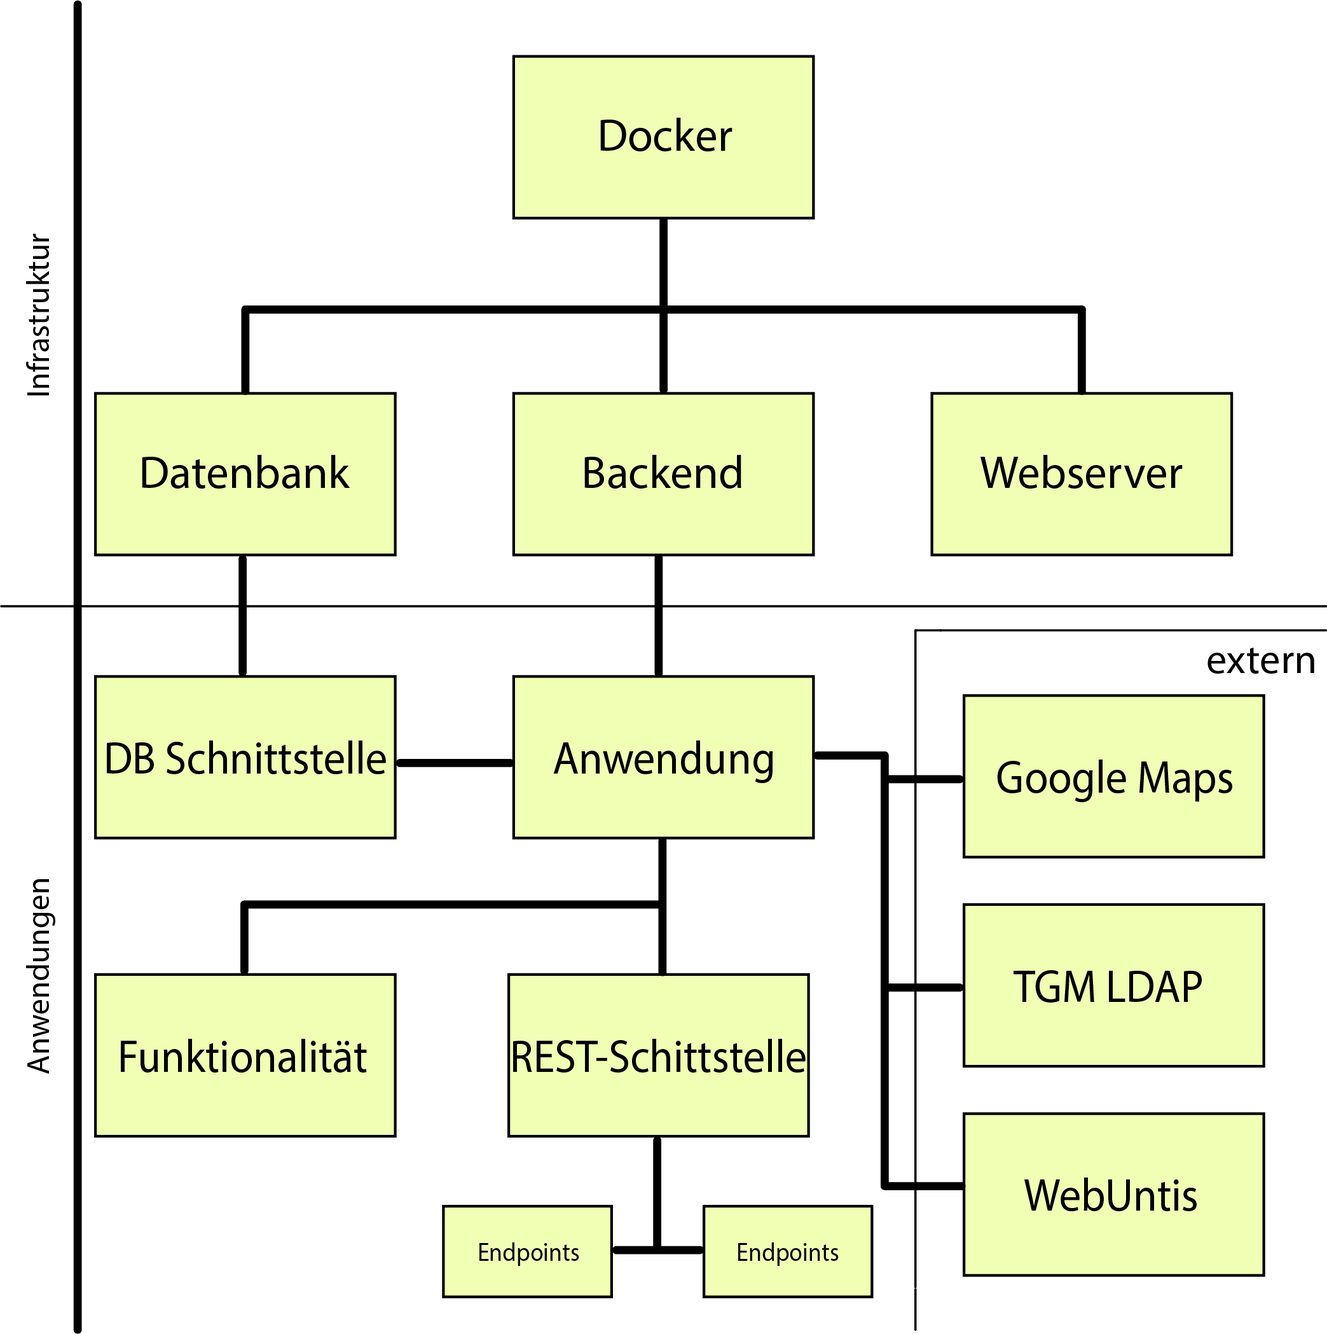
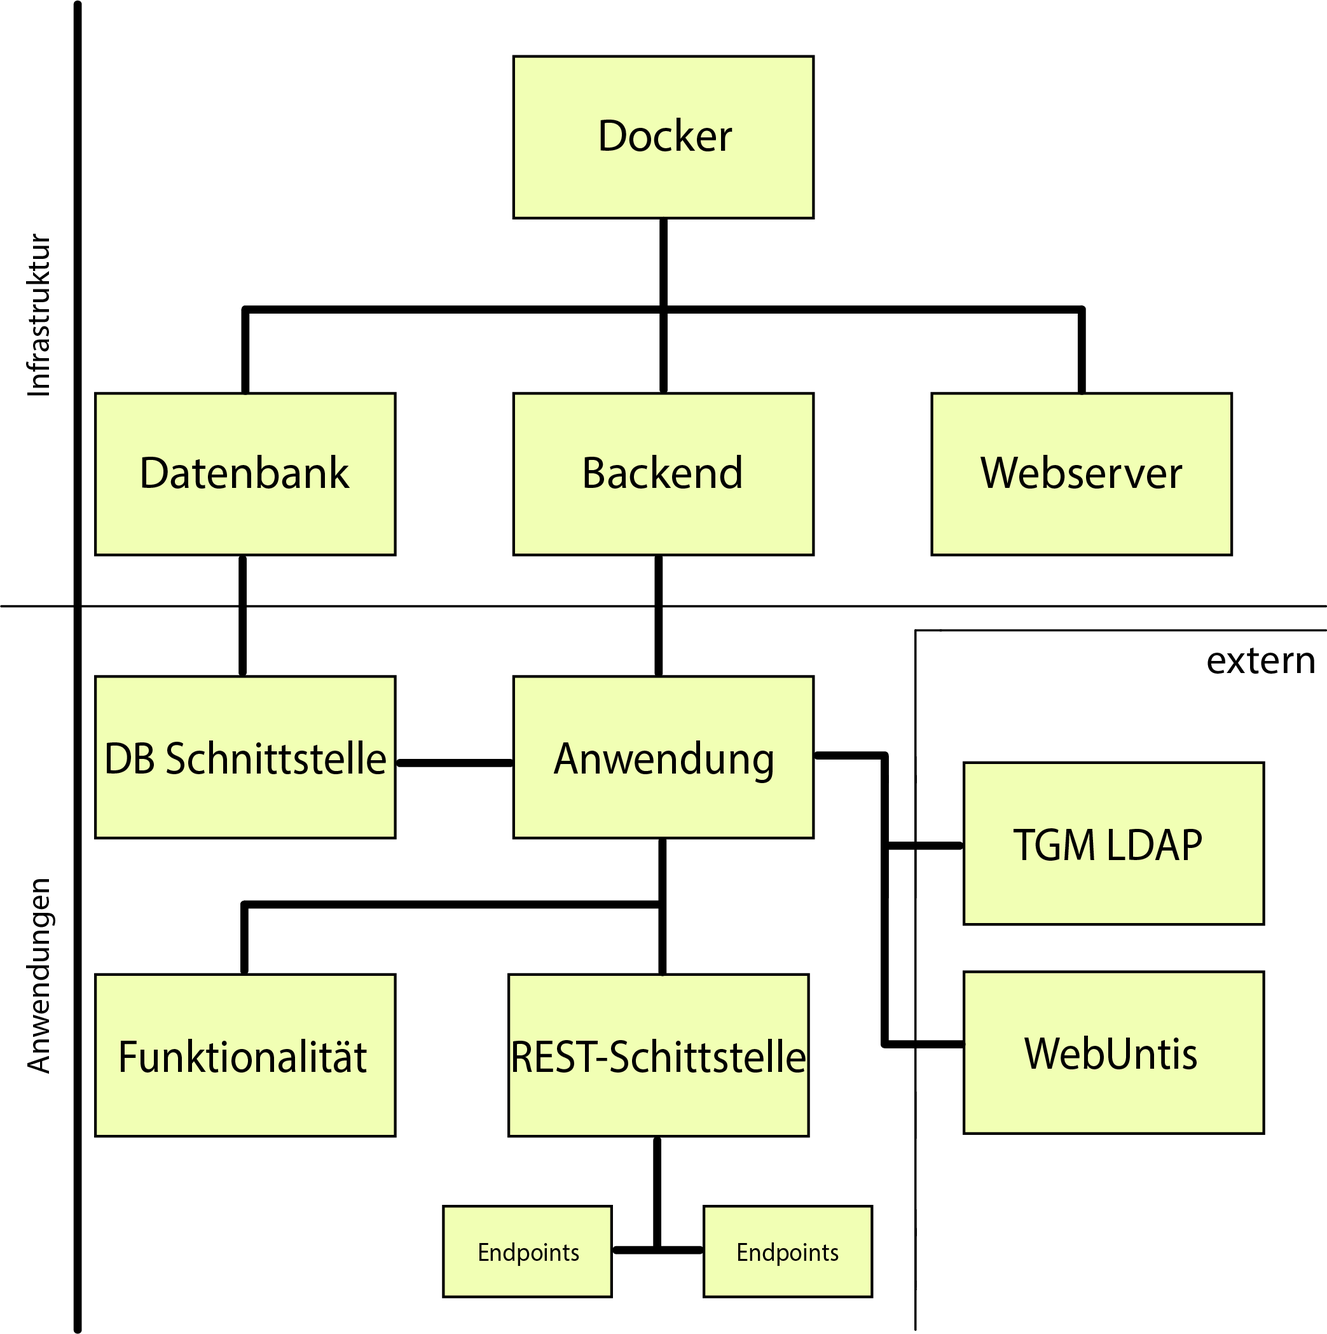
corrected sota

Changed region(s): [[0.654, 0.4959, 0.9655, 0.7439], [0.654, 0.7749, 0.9655, 0.9609]]

diff --git a/chapters/studie/mbeier.tex b/chapters/studie/mbeier.tex
@@ -2,7 +2,7 @@
 
 \section{Backend - REST-Schnittstelle und Infrastruktur}
 	\subsection{Einleitung}
-	Das Backend wird aus mehreren Komponenten bestehen. Einerseits wird eine gewisse System-Infrastruktur aufgebaut werden, um das \gls{webinterface} und die REST-Schnittstelle bereitzustellen. Andererseits muss die Anwendung selbst auch entwickelt werden. Diese besteht wiederum auch aus mehreren Teilen. Darunter fällt die REST-Schnittstelle, inklusive der implementierten Endpoints, Schnittstellen zu diversen Diensten, wie dem TGM-LDAP Server, zur Datenbank, zu Google Maps und zu WebUntis, aber auch die allgemeine Funktionalität der Anwendung, unter anderem das Versenden von E-Mails oder Erstellen von PDF-Dateien. Für die Verbindung zu den Schnittstellen, sowie zur Implementierung der geforderten Funktionalität, werden diverse  \gls{tpp} genutzt werden. Die folgende Grafik gibt einen Überblick hinter der Infrastruktur und den verwendeten Diensten:
+	Das Backend besteht aus mehreren Komponenten. Einerseits wird eine gewisse System-Infrastruktur aufgebaut werden, um das \gls{webinterface} und die REST-Schnittstelle bereitzustellen. Andererseits muss die Anwendung selbst entwickelt werden. Diese besteht aus mehreren Teilen. Darunter fällt die REST-Schnittstelle, inklusive der implementierten Endpoints, Schnittstellen zu diversen Diensten, wie dem TGM-LDAP Server, zur Datenbank und zu WebUntis, aber auch die allgemeine Funktionalität der Anwendung, unter anderem das Erstellen von PDF-Dateien. Für die Verbindung zu den Schnittstellen sowie zur Implementierung der geforderten Funktionalität werden diverse  \gls{tpp} genutzt werden. Die folgende Grafik gibt einen Überblick hinter der Infrastruktur und den verwendeten Diensten:
 	\begin{figure}[H]
 		\centering
 		\includegraphics[width=0.8\linewidth]{images/uebersicht}
@@ -11,9 +11,9 @@
 	\end{figure}
 	
 	\newpage
-	In den folgenden Kapiteln werden die aktuell verfügbaren Technologien, welche für die Umsetzung im Backendbereich in Frage kommen, beschrieben und gegebenenfalls - sofern mehrere sinnvolle Kandidaten vorhanden sind - auch verglichen. Auf einen detaillierten Vergleich jeglicher verwendbaren Third Party Packages, welche dazu genutzt werden könnten die Funktionalität im Backend zu implementieren, wird auf Grund der extrem hohen Anzahl im Sinne der Übersichtlichkeit verzichtet.
+	In den folgenden Kapiteln werden die aktuell verfügbaren Technologien, welche für die Umsetzung im Backendbereich in Frage kommen, beschrieben und gegebenenfalls - sofern mehrere sinnvolle Kandidaten vorhanden sind - auch verglichen. Auf einen detaillierten Vergleich jeglicher verwendbaren Third Party Packages, welche dazu genutzt werden könnten die Funktionalität im Backend zu implementieren, wird auf Grund der extrem hohen Anzahl im Sinne der Übersichtlichkeit verzichtet. Darunter fallen jedenfalls Module wie maroto (zum Erstellen von PDF-Dateien \cite{maroto}), excelize (zum Erstellen von Excel-Dateien \cite{excelize}) und jwt-go (zum Erstellen von \Gls{jwt} \cite{jwt-go}) 
 	\subsection{Docker}
-	Um die Infrastruktur des Projektes einfach aufbauen zu können, wird \Gls{docker} genutzt. Da es sich hier um eine komplex strukturierte Infrastruktur handelt wird zusätzlich das Werkzeug \Gls{dcompose} genutzt. Mit Docker Compose kann eine Infrastruktur aufgebaut werden, die der \hyperref[fig:uebersicht]{Abbildung - Übersicht} entspricht. Für diese sind folgende Container vorgesehen, die in den nächsten Kapiteln noch ins Detail beschrieben werden.
+	Um die Infrastruktur des Projektes einfach aufbauen zu können, wird \Gls{docker} genutzt. Da es sich hier um eine komplex strukturierte Infrastruktur handelt wird zusätzlich das Werkzeug \Gls{dcompose} genutzt. Mit Docker Compose kann eine Infrastruktur aufgebaut werden, die der \hyperref[fig:uebersicht]{Abbildung - Übersicht} entspricht. Für diese sind folgende Container vorgesehen, die in den nächsten Kapiteln noch im Detail beschrieben werden.
 		\subsubsection{Datenbank}
 		\label{sec:db}
 		Um die Daten, die durch Refundable erhoben und generiert werden, zu speichern, benötigen wir eine \gls{db}. Auf Grund der Daten, welche sich durch unterschiedliche Datenstrukturen auszeichnen, ist der Einsatz einer \gls{relDb} nicht sinnvoll. Stattdessen empfiehlt sich die Verwendung einer \gls{nosqlDb}.
@@ -28,9 +28,9 @@
 		\label{code:nosqltypes}~\\	
 		Bei Key-Value Datenbanken wird einem Schlüssel ein Wert hinterlegt. Dieser Wert ist dann jederzeit über den Schlüssel in der Datenbank abrufbar. Für unseren Use Case ist dieses System nicht sinnvoll anzuwenden, da die von uns benutzten Daten hierfür zu komplex im Aufbau sind.~\\
 		Bei spaltenorientierten Datenbanken werden Daten vorrangig über ihre Spalten (statt wie bei relationalen \gls{db}s in Zeilen) analysiert. Dies ermöglicht die einfache Umsetzung statistischer Methoden auf Basis der Spalten. Da jedoch wieder eine Tabelle als Grundstruktur vorliegt, ist dieser Typ von Datenbank nicht sinnvoll anwendbar für Refundable.~\\
-		Bei graphenorientierten Daten wird vorrangig auf die Beziehung zwischen einzelnen Elementen geschaut. Daten werden hierbei in Knoten gespeichert, welche zu anderen Verbunden werden können. Die primären Elemente sind hierbei die Beziehungen, anstatt der Daten selbst. Da die Daten von Refundable nicht über starke Beziehungen charakterisiert sind, ist auch dieser \gls{db}-Typ nicht sinnvoll zu benutzen.~\\		
+		Bei graphenorientierten Daten wird die Beziehung zwischen einzelnen Elementen hervorgehoben. Daten werden hier in Knoten gespeichert, welche zu anderen verbunden werden können. Die primären Elemente sind hierbei die Beziehungen, anstatt der Daten selbst. Da die Daten von Refundable nicht über starke Beziehungen charakterisiert sind, ist auch dieser Datenbank-Typ nicht sinnvoll zu benutzen.~\\		
 		Zuletzt bei dokumentenorientierten Datenbanken unterliegt jeder Datensatz in einem eigenen Dokument, welches in \Gls{json}, \Gls{yaml}, \Gls{xml} oder ähnlichen Datenformaten gespeichert wird. Dadurch ist auch eine jeweils von einander unabhängige Datenstruktur möglich. Auf Grund der Flexibilität bei Datenstrukturen ist eine dokumentenorientierte Datenbank eindeutig sinnvoll zu verwenden.~\\
-		Als \gls{dbms} kommt bei dieser Auswahl einige Software in Frage. Die am meisten verbreitete Software hier ist MongoDB und CouchDB \cite{mongo}. Wo MongoDB auf strenge \gls{konsistenz} setzt, setzt CouchDB auf hohe \gls{verfugbarkeit}. Da in unserem Projekt Konsistenz wichtiger ist als Verfügbarkeit wird MongoDB in einem Container als \gls{dbms} verwendet.
+		Als \gls{dbms} kommt bei dieser Auswahl einige Software in Frage. Die am meisten verbreitete Software hier ist MongoDB und CouchDB \cite{mongo}. Wo MongoDB auf strenge \gls{konsistenz} setzt, setzt CouchDB auf hohe \gls{verfugbarkeit}. Da in unserem Projekt Konsistenz wichtiger ist als Verfügbarkeit wird MongoDB in einem Container als Datenbankmanagementsystem verwendet.
 		
 		\subsubsection{Backend-Container}
 		
@@ -39,11 +39,11 @@
 		
 		\subsubsection{Webserver}
 		
-		Als Webserver um das Webinterface aufrufbar und verfügbar zu machen wird ein Apache2 Server genutzt \cite{apache}. Dieser Container ruft automatisch das Frontend auf und kopiert es in seine Umgebung. Ebenfalls muss der Container Zugriff auf Zertifikaten bekommen, um einen sicheren Zugriff über \gls{https} gewährleisten zu können.
+		Als Webserver wird ein Apache2 Server genutzt \cite{apache}. Der Service stellt hierbei das Webinterface (Frontend) im Internet zur Verfügung. Dieser Container ruft automatisch das Frontend auf und kopiert es in seine Umgebung. Ebenfalls muss der Container Zugriff auf Zertifikaten bekommen, um einen sicheren Zugriff über \gls{https} gewährleisten zu können.
 				
 	\subsection{Deployment}
 	
-	Das Deployment soll automatisch geschehen. Um dies einfach zu ermöglichen, werden die oben zuvor beschriebenen Docker-Container, GitHub und ein Skript, welches die Schritte ausführt, genutzt. Das Skript ist hier der Hauptbaustein, welcher den Vorgang startet und steuert. Zusätzlich zum Installationsvorgang, soll das Skript auch die weitere Steuerung der Software, also starten, stoppen, updaten, cleanen und deinstallieren.~\\
+	Das Deployment soll automatisch geschehen. Um dies einfach zu ermöglichen, werden die oben zuvor beschriebenen Docker-Container, GitHub und ein Skript, welches die Schritte ausführt, genutzt. Das Skript ist hier der Hauptbaustein, welcher den Vorgang startet und steuert. Zusätzlich zum Installationsvorgang, soll das Skript auch die weitere Steuerung der Software, also starten, stoppen, updaten, cleanen und deinstallieren, beinhalten.~\\
 	Das Skript liegt in einem eigenem Install-\Gls{repo}, in welchem sonst keine weiteren Dateien liegen. Dadurch kann es einfach gecloned und direkt installiert werden; die restlichen Installations-Schritte werden automatisch erledigt.~\\
 	Da das Deployment auf einer Linux-Maschine ermöglicht werden soll, wird \Gls{bash} als Standard-Skriptsprache benutzt. Zur Verteilung des Scripts wird wie erwähnt \Gls{git} mit dem Online Repository-Hosting Service \Gls{github} verwendet.
 	\subsection{REST-Schnittstelle}
@@ -59,30 +59,30 @@
 	\captionof{listing}{Prinzipien des Representation State Transfer}
 	\label{code:rest}
 		\subsubsection{Java und Spring}
-		Java ist eine der bekanntesten Programmiersprachen. Sie zeichnet sich durch Plattform-Unabhängigkeit aus \cite{jdkDocs}. Um dies zu erreichen, wird Bytecode von einem eigenem Programm - der Java Virtual Machine - interpretiert. Java arbeitet objektorientiert und ist statisch typisiert, dies bedeutet, dass bereits vor dem Ausführen die Datentypen klar sind. Java unterstützt auch Multithreading. Um einfach eine REST-Schnittstelle in Java bauen zu können, wird Spring Boot genutzt \cite{springDocs}. Die Verwendung von Spring ermöglicht Webapps, Tasks oder Microservices einfacher umzusetzen. Prinzipiell arbeitet Spring asynchron und flexibel, sodass es einfach zu skalieren ist. 
+		Java ist eine der bekanntesten Programmiersprachen. Sie zeichnet sich durch Plattform-Unabhängigkeit aus \cite{jdkDocs}. Um dies zu erreichen, wird Bytecode von einem eigenem Programm, der Java Virtual Machine, interpretiert. Java arbeitet objektorientiert und ist statisch typisiert. Dies bedeutet, dass bereits vor dem Ausführen die Datentypen definiert sind. Java unterstützt auch Multithreading. Um einfach eine REST-Schnittstelle in Java bauen zu können, wird Spring Boot genutzt \cite{springDocs}. Die Verwendung von Spring ermöglicht Webapps, Tasks oder Microservices einfacher umzusetzen. Prinzipiell arbeitet Spring asynchron und flexibel, sodass es einfach zu skalieren ist. 
 		
 		\subsubsection{Python und Flask}
-		Um mit Python eine REST-Schnittstelle zu realisieren muss auf das Package (Framework) Python Flask zurückgegriffen werden \cite{flaskDocs}. Flask wird hierbei dazu gezogen, um den Webservice zu bauen. Python und Java unterscheiden sich prinzipiell sehr. Python ist im Gegensatz zu Java dynamisch typisiert, dies bedeutet, dass eine Variablendeklaration nicht notwendig ist und der Datentyp einer Variable erst zur Laufzeit klar ist \cite{pythonDocs}. Anders als Java setzt Python auf Third-Party Packages, welche sehr einfach importiert werden können. Durch die große Community Pythons, ist ein Großteil der Tools, die man benötigt, meist schon vorprogrammiert und kann einfach importiert werden. Zusätzlich ist der Syntax - speziell was Zeichensetzung anbelangt - einfacher zu Verstehen, als jener von Java.
+		Um mit Python eine REST-Schnittstelle zu realisieren muss auf das Package (Framework) Python Flask zurückgegriffen werden \cite{flaskDocs}. Flask wird hierbei dazu genutzt, um den Webservice zu bauen. Python und Java unterscheiden sich prinzipiell sehr. Python ist im Gegensatz zu Java dynamisch typisiert, dies bedeutet, dass eine Variablendeklaration nicht notwendig ist und der Datentyp einer Variable erst zur Laufzeit klar ist \cite{pythonDocs}. Anders als Java setzt Python auf Third-Party Packages, welche sehr einfach importiert werden können. Durch die große Community Pythons ist ein Großteil der Tools, die man benötigt, meist schon vorprogrammiert und kann einfach importiert werden. Zusätzlich ist der Syntax (speziell was Zeichensetzung anbelangt) einfacher zu Verstehen, als jener von Java.
 		
 		\subsubsection{Golang}
 		Golang (kurz Go) ist eine von Google entwickelte und publizierte Programmiersprache \cite{goDocs}. Sie wurde aus der Unzufriedenheit über Java, C++ und Python heraus entwickelt, welche am häufigsten bei Google eingesetzt wurden. All diese Programmiersprachen haben Nachteile in Googles Business Case, deswegen wurde Go speziell für skalierbare Netzwerkdienste und Cloud Computing entwickelt. Aus diesem Grund besitzt Go auch eine native Möglichkeit für den einfachen Aufbau von REST-Schnittstellen. Da bei der Entwicklung von Go speziell aus den Fehlern in Performance und Sprachdesign aus anderen Sprachen gelernt wurde, verbindet Go die Vorteile der anderen Sprachen. Darunter fallen die starke und statische Typisierung, Objektorientierung, Pointer und eine verbesserte Compiler-Effizienz.
 		\subsubsection{Vergleich}
-		Diese drei Sprache werden nun in den Aspekten der Performance, dem Sprachdesign, der Komplexität des Aufbaus einer REST-Schnittstelle, das Vorhandensein von Frameworks, die Erfahrung des Teams und eine vorhandene ausführliche Dokumentation. Hierbei wird auf einer Punkteskala von 1 - 10 bewertet.
+		Diese drei Sprache werden nun in den Aspekten der Performance, dem Sprachdesign, der Komplexität des Aufbaus einer REST-Schnittstelle, das Vorhandensein von Frameworks, die Erfahrung des Teams und eine vorhandene ausführliche Dokumentation. Hierbei wird auf einer Punkteskala von 0 - 9 bewertet.
 		\begin{table}
 			\begin{tabular}{|l|r|r|r|r|r|r|r|}
 				\hline
 				\multicolumn{1}{|c|}{\textbf{Kriterien}} & \multicolumn{1}{c|}{\textbf{Gewichtung}} & \multicolumn{2}{c|}{\textbf{Java und Spring}} & \multicolumn{2}{c|}{\textbf{Python und Flask}} & \multicolumn{2}{c|}{\textbf{Golang}} \\ \cline{3-8} 
 				& \multicolumn{1}{l|}{} & \multicolumn{1}{c|}{Punkte} & \multicolumn{1}{c|}{Wertung} & \multicolumn{1}{c|}{Punkte} & \multicolumn{1}{c|}{Wertung} & \multicolumn{1}{c|}{Punkte} & \multicolumn{1}{c|}{Wertung} \\ \hline
-				Performance & 15\% & 7 & 1,05 & 4 & 0,6 & 10 & 1,5 \\ \hline
-				Sprachdesign & 25\% & 7 & 1,75 & 5 & 1,25 & 9 & 2,25 \\ \hline
-				\begin{tabular}[c]{@{}l@{}}Aufbau einer \\ REST-Schnittstelle\end{tabular} & 5\% & 8 & 0,4 & 9 & 0,45 & 10 & 0,5 \\ \hline
-				\begin{tabular}[c]{@{}l@{}}Vorhandensein von\\ Frameworks\end{tabular} & 15\% & 8 & 1,2 & 10 & 1,5 & 10 & 1,5 \\ \hline
-				\begin{tabular}[c]{@{}l@{}}Erfahrung des \\ Teams\end{tabular} & 20\% & 5 & 1 & 4 & 0,8 & 7 & 1,4 \\ \hline
-				Dokumentation & 20\% & 9 & 1,8 & 8 & 1,6 & 10 & 2 \\ \hline
-				\textbf{Summe} & 100\% & \multicolumn{1}{l|}{} & \multicolumn{1}{c|}{\textbf{7,2}} & \multicolumn{1}{c|}{\textbf{}} & \multicolumn{1}{c|}{\textbf{6,2}} & \multicolumn{1}{c|}{\textbf{}} & \multicolumn{1}{c|}{\textbf{9,15}} \\ \hline
+				Performance & 15\% & 6 & 0,9 & 3 & 0,45 & 9 & 1,35 \\ \hline
+				Sprachdesign & 25\% & 6 & 1,5 & 4 & 1 & 8 & 2 \\ \hline
+				\begin{tabular}[c]{@{}l@{}}Aufbau einer \\ REST-Schnittstelle\end{tabular} & 5\% & 7 & 0,35 & 8 & 0,40 & 9 & 0,45 \\ \hline
+				\begin{tabular}[c]{@{}l@{}}Vorhandensein von\\ Frameworks\end{tabular} & 15\% & 7 & 1,05 & 9 & 1,35 & 9 & 1,35 \\ \hline
+				\begin{tabular}[c]{@{}l@{}}Erfahrung des \\ Teams\end{tabular} & 20\% & 4 & 0,8 & 3 & 0,6 & 6 & 1,2 \\ \hline
+				Dokumentation & 20\% & 8 & 1,6 & 7 & 1,4 & 9 & 1,8 \\ \hline
+				\textbf{Summe} & 100\% & \multicolumn{1}{l|}{} & \multicolumn{1}{c|}{\textbf{6,2}} & \multicolumn{1}{c|}{\textbf{}} & \multicolumn{1}{c|}{\textbf{5,2}} & \multicolumn{1}{c|}{\textbf{}} & \multicolumn{1}{c|}{\textbf{8,15}} \\ \hline
 			\end{tabular}
 		\end{table}
-		\captionof{table}{Vergleich zwischen Java, Python und Golang}\label{tbl:comparison}~\\
+		\captionof{table}{Vergleich zwischen Java, Python und Golang}\label{tbl:comparisonlang}~\\
 		Daraus und aus der durchgeführten Recherche, lässt sich schließen, dass Golang sich speziell bei den Punkten Performance und Sprachdesign durchsetzen kann. Ansonsten schneiden die verschiedenen Sprachen inklusive der teilweise benötigten Frameworks großteils ähnlich hoch ab. Zusammenfassend eignet sich die Verwendung von Golang am Besten als Programmiersprache für unser Projekt, da sie im numerischen Vergleich mit der höchsten Punktezahl abschnitt, aber auch durch die speziellen Hintergründe ihrer Entwicklung genau zu den Voraussetzungen passt.
 	\subsection{Kommunikation und Datenformate}
 	Wie bereits erwähnt, zeichnen sich REST-Schnittstellen unter anderem dadurch aus, dass sie ein einheitliches Datenformat voraussetzen. Aus diesem Grund stellen sich die Fragen: Welche Datenformate eignen sich für einen konsistenten und performanten Datenaustausch zwischen Datenbank, REST-Schnittstelle und Client? Welche Vor- und Nachteile bringen diese im Hinblick auf Performance, Softwarewartung und -evolution?
@@ -111,13 +111,13 @@
 					"name": "1AHIT",
 					"lastYear": false,
 					"students": 35,
-					"class-rep": null
+					"class-rep": "Michaela Musterfrau"
 				},
 				{
 					"name": "5BHIT",
 					"lastYear": true,
 					"students": 25,
-					"class-rep": null
+					"class-rep": "Maximilian Frühmann"
 				}
 			],
 			"date": "2021-09-01"
@@ -125,13 +125,13 @@
 		\end{code}
 		\captionof{listing}{JSON Beispiel}
 		\label{code:json}~\\
-		Das hier stehende Beispiel stellt ein Objekt mit zwei Feldern dar. Das erste Feld ist ein \enquote{classes}-Array, welches verschiedene Schulklassen beinhaltet. Diese Schulklassen haben jeweils einen String als Namen, einen Boolean als Feld, das angibt, ob es sich um eine Abschlussklasse handelt, die Anzahl der Schüler als Zahl und den Namen des Klassensprechers, die aktuell - aus folgendem Grund - noch \enquote{null} sind. Nachdem die Definition des Arrays abgeschlossen ist, wird noch ein weiteres Feld im obersten Objekt angegeben, welches das aktuelle Datum als String beinhaltet. Nun ist auch klar, warum die Klassensprecher Felder \enquote{null} sind, da noch keine Zeit war um eine Vertretungswahl abzuhalten.
+		Das hier stehende Beispiel stellt ein Objekt mit zwei Feldern dar. Das erste Feld ist ein \enquote{classes}-Array, welches verschiedene Schulklassen beinhaltet. Diese Schulklassen haben jeweils einen String als Namen, einen Boolean als Feld, das angibt, ob es sich um eine Abschlussklasse handelt, die Anzahl der Schüler als Zahl und den Namen des Klassensprechers. Nachdem die Definition des Arrays abgeschlossen ist, wird noch ein weiteres Feld im obersten Objekt angegeben, welches das aktuelle Datum als String beinhaltet.
 		\\~\\
 		Der JSON-Standard umfasst genaue Regeln, wie mit den Datentypen, speziell mit Strings und Zahlen, umzugehen ist \cite{rfc4627}.
-		Über einen JSON-Generator kann ein JSON-Text auf Basis eines Dateninputs generiert werden. Wenn die Daten aus dem JSON-Textformat wieder extrahiert werden sollen spricht man vom \enquote{parsen} von Daten.\\
+		Über einen JSON-Generator kann ein JSON-Text auf Basis eines Dateninputs generiert werden. Wenn die Daten aus dem JSON-Textformat wieder extrahiert werden sollen, spricht man vom \enquote{parsen} von Daten.\\
 		Jede moderne Programmiersprache hat einen eigenen JSON-Parser implementiert oder es ist möglich einen über ein \Gls{tpp} zu laden.
 		\subsubsection{XML}
-		\Gls{xml} (Extensible Markup Language) ist ein strukturiertes textbasiertes Datenformat \cite{xmlStandard}. Es handelt sich hierbei um eine Markup-Language. Als Syntax von XML werden Tags verwendet welche, wobei ein <Tag> ein Anfangs-Tag ist und ein </Tag> ein End-Tag ist. Ebenfalls können Attribute in einem Anfangs-Tag definiert werden (<Tag attribut='wert'). XML-Dateien brauchen im Gegensatz zu JSON-Texten ein Wurzelelement.
+		\Gls{xml} (Extensible Markup Language) ist ein strukturiertes textbasiertes Datenformat \cite{xmlStandard}. Es handelt sich hierbei um eine Markup-Language. Als Syntax von XML werden Tags verwendet. Ein <Tag> ist ein Anfangs-Tag und ein </Tag> ein End-Tag. Ebenfalls können Attribute in einem Anfangs-Tag definiert werden (<Tag attribut=\dq wert\dq ). XML-Dateien brauchen im Gegensatz zu JSON-Texten ein Wurzelelement.
 		\begin{code}{xml}
 		<school>
 			<classes>
@@ -143,14 +143,14 @@
 		\end{code}
 		\captionof{listing}{XML Beispiel}
 		\label{code:xml}~\\
-		Das Beispiel definiert ein Wurzelelement für die Datenstruktur namens \enquote{school}. Dieses hat ein Kindelement \enquote{classes}. In diesem sind einzelne \enquote{class}-Tags mit den nötigen Attributen und dem Namen der Klasse innerhalb der Tags. Dies wird als Alternative für die in XML nicht vorhandenen Arrays genutzt. Zuletzt wird wieder ein \enquote{date}-Kindelement mit dem aktuellem Datum als Inhalt hinzugefügt.\\~\\
+		Das Beispiel definiert ein Wurzelelement für die Datenstruktur namens \enquote{school}. Dieses hat ein Kindelement \enquote{classes}. In diesem sind einzelne \enquote{class}-Tags mit den nötigen Attributen und dem Namen der Klasse innerhalb der Tags. Dies wird als Alternative für die in XML nicht vorhandenen Arrays genutzt. Zuletzt wird wieder ein untergeordnetes \enquote{date}-Element mit dem aktuellem Datum als Inhalt hinzugefügt.\\~\\
 		Das XML-Dateiformat kann entweder gültig oder wohlgeformt sein \cite{xmlStandard}. Dies beschreibt die Einhaltung des Syntax und der Regeln des XML Standards.\\
 		Des Weiteren besteht die Möglichkeit die Struktur von XML-Dateien anhand der XML-Schema-Sprache oder durch die Document Type Definition zu beschreiben. XML Dateien brauchen aus diesen Gründen unbedingt einen Parser für die Umwandlung.
 		
 		\newpage
 		
 		\subsubsection{CSV}
-		CSV (Comma-Separated Values) ist ein Textformat, mit welchem man Tabellen textbasiert darstellen kann \cite{rfc4180}. Hierbei werden Spalten durch , getrennt und Zeilen durch einen Zeilenumbruch (CRLF; LF). Die erste Zeile repräsentiert die Namen der Spalten. Eine Beschreibung einer Tabelle mit CSV sieht wie folgt aus:
+		CSV (Comma-Separated Values) ist ein Textformat, mit welchem man Tabellen textbasiert darstellen kann \cite{rfc4180}. Hierbei werden Spalten durch \dq , \dq (Beistriche) getrennt und Zeilen durch einen Zeilenumbruch (CRLF; LF). Die erste Zeile repräsentiert die Namen der Spalten. Eine Beschreibung einer Tabelle mit CSV sieht wie folgt aus:
 		\begin{code}{python}
 			Class,lastYear,students,class-rep
 			1AHIT,false,35,null

diff --git a/glossaries/mbeier.tex b/glossaries/mbeier.tex
@@ -105,3 +105,8 @@
 	name={Null},
 	description={Null ist ein Datentyp, welcher die Abwesenheit von Daten beschreibt. Er ist nicht zu verwechseln mit einer 0. Null wird meistens dann genutzt, wenn Daten noch nicht verfügbar sind}
 }
+
+\newglossaryentry{jwt}{
+	name={JSON Web Token},
+	description={Ein JSON Web Token ist ein kompaktes Übertragungsformat für die sichere Übertragung zwischen zwei Punkten. Die Informationen sind dabei signiert und können dadurch verifiziert werden. \cite{rfc7519} }
+}
